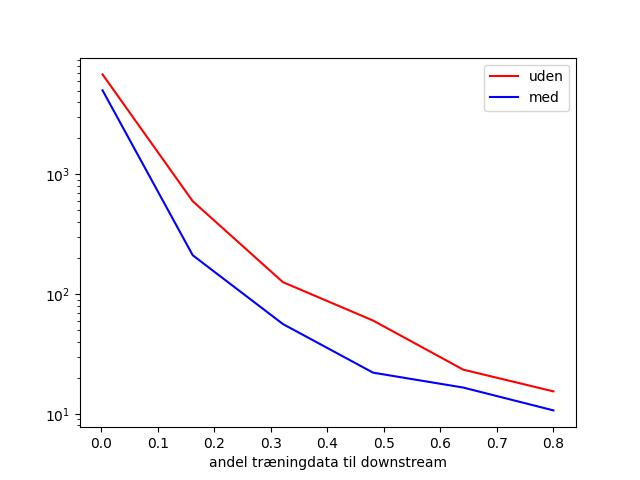
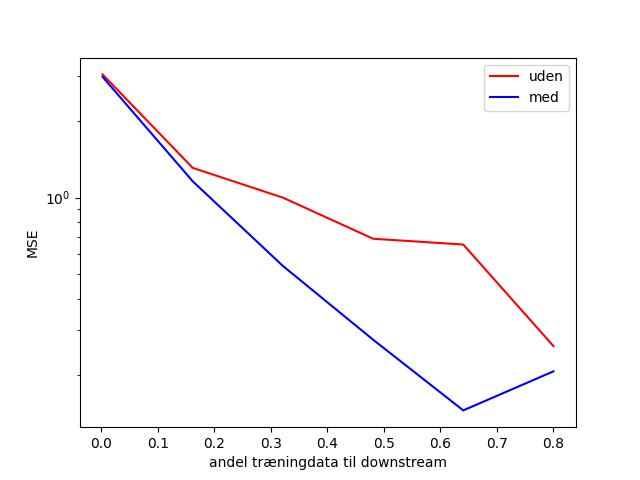
ændringer

diff --git a/src/models/grund.py b/src/models/grund.py
@@ -11,16 +11,17 @@ from src.models.hoveder.hovedselvvejledt import HovedSelvvejledt
 from src.models.hoveder.hoveddownstream import HovedDownstream
 from src.models.visnet.kerne import VisNetRyggrad
 
+
 class Grundmodel(L.LightningModule):
 
     def __init__(self,
                  debug: bool = False,
                  eftertræningsandel: float = 0.0025,
                  delmængdestørrelse: float = 0.1,
-                 rygrad_args = VisNetRyggrad.args
+                 rygrad_args=VisNetRyggrad.args
                  ):
         super().__init__()
-        rygrad_args = self.behandl_rygrad_args(rygrad_args)
+        self.tjek_args(rygrad_args, VisNetRyggrad.args)
         self.rygrad = VisNetRyggrad(
             **rygrad_args
         )
@@ -28,18 +29,20 @@ class Grundmodel(L.LightningModule):
         self.debug = debug
         self.eftertræningsandel = eftertræningsandel
         self.QM9Bygger = QM9Bygger(eftertræningsandel, delmængdestørrelse)
+        self.save_hyperparameters()
 
-    def behandl_rygrad_args(self, rygrad_args):
-        forskel = set(rygrad_args.keys()) - set(VisNetRyggrad.args.keys())
-        assert len(forskel) == 0, f'Følgende argumenter var uventede {forskel}'
-        ny_rygrad_args = {**VisNetRyggrad.args, **{k: rygrad_args[k] for k in rygrad_args}}
-        return ny_rygrad_args
+    def tjek_args(self, givne_args, forventede_args):
+        forskel1 = set(givne_args.keys()) - set(forventede_args.keys())
+        assert len(forskel1) == 0, f'Følgende argumenter var uventede {forskel1}'
+        forskel2 = set(forventede_args.keys()) - set(givne_args.keys())
+        assert len(forskel2) == 0, f'Følgende argumenter mangler {forskel2}'
 
     def train_dataloader(self) -> DataLoader:
         return self.QM9Bygger('train', self.debug)
 
     def val_dataloader(self) -> DataLoader:
         return self.QM9Bygger('val', self.debug)
+
     def test_dataloader(self) -> DataLoader:
         return self.QM9Bygger('test', self.debug)
 
@@ -50,22 +53,19 @@ class Grundmodel(L.LightningModule):
     def frys_rygrad(self):
         self.rygrad.freeze()
 
+
 class GrundSelvvejledt(Grundmodel):
 
     def __init__(self, *args,
-                 maskeringsandel = 0.15,
-                 lambdaer = None,
-                 reduce_op: str = "sum",
-                 mean: float = 0.0,
-                 std: float = 1.0,
-                 hidden_channels: int = 128,
-                 max_z: int = 100,
-                 atomref: Optional[Tensor] = None,
+                 maskeringsandel=0.15,
+                 lambdaer=None,
+                 hoved_args=HovedSelvvejledt.args,
                  **kwargs):
         super().__init__(*args, **kwargs)
 
         if not lambdaer:
             self.lambdaer = {'lokalt': 0.5, 'globalt': 0.5}
+        self.tjek_args(hoved_args, HovedSelvvejledt.args)
 
         self.register_buffer("noise_scales_options", torch.tensor([0.001, 0.01, 0.1, 1.0, 10, 100, 1000]))
         self.maskeringsandel = maskeringsandel
@@ -73,12 +73,8 @@ class GrundSelvvejledt(Grundmodel):
         self.criterion = torch.nn.MSELoss(reduction='mean')
         self.riemannGaussian = RiemannGaussian()
         self.hoved = HovedSelvvejledt(
-            atomref=atomref,
-            max_z=max_z,
-            reduce_op=reduce_op,
-            mean=mean,
-            std=std,
-            hidden_channels=hidden_channels,
+            **hoved_args,
+            hidden_channels=self.hparams.rygrad_args['hidden_channels'],
             out_channels=len(self.noise_scales_options)
         )
 
@@ -126,17 +122,17 @@ class GrundSelvvejledt(Grundmodel):
         x, v, edge_attr = self.rygrad(z, pos_til, batch)
         tabsopslag = self.hoved(z, pos_til, batch, x, v, noise_idxs, noise_scales, target)
         return tabsopslag
+
+
 class GrundDownstream(Grundmodel):
     def __init__(self, *args,
-                 hidden_channels: int = 128,
-                 out_channels: int = 19,
-                 reduce_op: str = 'sum',
+                 hoved_args=HovedDownstream.args,
                  **kwargs):
         super().__init__(*args, **kwargs)
+        self.tjek_args(hoved_args, HovedDownstream.args)
         self.hoved = HovedDownstream(
-            hidden_channels=hidden_channels,
-            out_channels=out_channels,
-            reduce_op=reduce_op
+            hidden_channels=self.hparams.rygrad_args['hidden_channels'],
+            **hoved_args
         )
         self.criterion = torch.nn.MSELoss()
 
@@ -159,10 +155,10 @@ class GrundDownstream(Grundmodel):
         return loss
 
     def forward(
-        self,
-        z: Tensor,
-        pos: Tensor,
-        batch: Tensor,
+            self,
+            z: Tensor,
+            pos: Tensor,
+            batch: Tensor,
     ) -> Tuple[Tensor, Optional[Tensor]]:
         x, v, edge_attr = self.rygrad(z, pos, batch)
         y = self.hoved(z, pos, batch, x, v)
@@ -171,8 +167,3 @@ class GrundDownstream(Grundmodel):
     def configure_optimizers(self) -> torch.optim.Optimizer:
         optimizer = torch.optim.AdamW(self.parameters(), lr=0.0001)
         return optimizer
-
-
-
-
-

diff --git a/src/træn.py b/src/træn.py
@@ -1,33 +1,35 @@
 import lightning as L
-from src.models.grund import GrundSelvvejledt, GrundDownstream
+import src.models as m
 import argparse
 
 def med_selvtræn():
-    selvvejledt = GrundSelvvejledt(debug=DEBUG, eftertræningsandel=0.0025, rygrad_args={'num_heads': 2})
+    selvvejledt = m.GrundSelvvejledt(debug=args.debug, eftertræningsandel=0.0025,
+                                   rygrad_args=m.load_config("config/rygrad_args.yaml"),
+                                     hoved_args=m.load_config("config/selvvejledt_hoved_args.yaml"))
     checkpoint_callback = L.pytorch.callbacks.ModelCheckpoint(monitor='val_loss', mode='min',
                                                               save_top_k=1, filename='best', save_last=True)
-    trainer = L.Trainer(max_epochs=EPOKER_SELVTRÆN,
+    trainer = L.Trainer(max_epochs=args.epoker_selvtræn,
                         callbacks=[checkpoint_callback])
     trainer.fit(model=selvvejledt)
 
-    downstream = GrundDownstream(debug=DEBUG)
-    downstream.indæs_selvvejledt_rygrad(GrundSelvvejledt.load_from_checkpoint(trainer.checkpoint_callback.best_model_path))
-    if FRYS_RYGRAD:
+    downstream = m.GrundDownstream(debug=args.debug, rygrad_args=m.load_config("config/rygrad_args2.yaml"))
+    downstream.indæs_selvvejledt_rygrad(m.GrundSelvvejledt.load_from_checkpoint(trainer.checkpoint_callback.best_model_path))
+    if args.frys_rygrad:
         downstream.frys_rygrad()
     checkpoint_callback = L.pytorch.callbacks.ModelCheckpoint(monitor='val_loss', mode='min',
                                                               save_top_k=1, filename='best', save_last=True)
-    trainer = L.Trainer(max_epochs=EPOKER_EFTERFØLGENDE,
+    trainer = L.Trainer(max_epochs=args.epoker_efterfølgende,
                         callbacks=[checkpoint_callback])
     trainer.fit(downstream)
     trainer.test(ckpt_path="best")
 
 def uden_selvtræn():
-    downstream = GrundDownstream(debug=DEBUG)
-    if FRYS_RYGRAD:
+    downstream = m.GrundDownstream(debug=args.debug, rygrad_args=m.load_config("config/rygrad_args.yaml"))
+    if args.frys_rygrad:
         downstream.frys_rygrad()
     checkpoint_callback = L.pytorch.callbacks.ModelCheckpoint(monitor='val_loss', mode='min',
                                                               save_top_k=1, filename='best', save_last=True)
-    trainer = L.Trainer(max_epochs=EPOKER_EFTERFØLGENDE,
+    trainer = L.Trainer(max_epochs=args.epoker_efterfølgende,
                         callbacks=[checkpoint_callback])
     trainer.fit(downstream)
     trainer.test(ckpt_path="best")
@@ -43,10 +45,16 @@ def parserargs():
 
 if __name__ == "__main__":
     args = parserargs()
-    DEBUG = args.debug
-    EPOKER_SELVTRÆN = args.epoker_selvtræn
-    EPOKER_EFTERFØLGENDE = args.epoker_efterfølgende
-    FRYS_RYGRAD = args.frys_rygrad
+    # DEBUG = args.debug
+    # EPOKER_SELVTRÆN = args.epoker_selvtræn
+    # EPOKER_EFTERFØLGENDE = args.epoker_efterfølgende
+    # FRYS_RYGRAD = args.frys_rygrad
+    # RYGRAD_ARGS = m.load_config("config/rygrad_args.yaml")
+    # SELVVEJLEDT_HOVED_ARGS = m.load_config("config/selvvejledt_hoved_args.yaml")
+    # with open("config/rygrad_args.yaml") as f:
+    #     RYGRAD_ARGS = yaml.safe_load(f)
+    # with open("config/selvvejledt_hoved_args.yaml") as f:
+    #     SELVVEJLEDT_HOVED_ARGS = yaml.safe_load(f)
 
 
     med_selvtræn()

diff --git a/src/eksp2.py b/src/eksp2.py
@@ -1,12 +1,12 @@
 import lightning as L
-from src.models.grund import GrundSelvvejledt, GrundDownstream
+import src.models as m
 import argparse
 import torch
 import pickle
 from src.data import QM9Bygger2
 
 def fortræn():
-    selvvejledt = GrundSelvvejledt(debug=args.debug)
+    selvvejledt = m.GrundSelvvejledt(debug=args.debug)
     checkpoint_callback = L.pytorch.callbacks.ModelCheckpoint(monitor='val_loss', mode='min',
                                                               save_top_k=1, filename='best', save_last=True)
     trainer = L.Trainer(max_epochs=args.epoker_selvtræn,
@@ -14,9 +14,9 @@ def fortræn():
     trainer.fit(selvvejledt,
                 train_dataloaders=qm9Bygger2('pretrain', debug=args.debug),
                 val_dataloaders=qm9Bygger2('val', debug=args.debug))
-    return GrundSelvvejledt.load_from_checkpoint(trainer.checkpoint_callback.best_model_path)
+    return m.GrundSelvvejledt.load_from_checkpoint(trainer.checkpoint_callback.best_model_path)
 def med_selvtræn(eftertræningsandel):
-    downstream = GrundDownstream(debug=args.debug)
+    downstream = m.GrundDownstream(debug=args.debug)
     downstream.indæs_selvvejledt_rygrad(selvvejledt)
     checkpoint_callback = L.pytorch.callbacks.ModelCheckpoint(monitor='val_loss', mode='min',
                                                               save_top_k=1, filename='best', save_last=True)
@@ -30,7 +30,7 @@ def med_selvtræn(eftertræningsandel):
     return resultater
 
 def uden_selvtræn(eftertræningsandel):
-    downstream = GrundDownstream(debug=args.debug)
+    downstream = m.GrundDownstream(debug=args.debug)
     checkpoint_callback = L.pytorch.callbacks.ModelCheckpoint(monitor='val_loss', mode='min',
                                                               save_top_k=1, filename='best', save_last=True)
     trainer = L.Trainer(max_epochs=args.epoker_efterfølgende,

diff --git a/src/models/hoveder/hovedselvvejledt.py b/src/models/hoveder/hovedselvvejledt.py
@@ -10,15 +10,21 @@ from src.models.visnet.kerne import EquivariantScalar, Atomref
 
 
 class HovedSelvvejledt(L.LightningModule):
-
+    args = {
+        'atomref': None,
+        'max_z': 100,
+        'reduce_op': "sum",
+        'mean': 0.0,
+        'std': 1.0,
+    }
     def __init__(self,
-                 hidden_channels: int = 128,
-                 atomref: Optional[Tensor] = None,
-                 max_z: int = 100,
-                 reduce_op: str = "sum",
-                 mean: float = 0.0,
-                 std: float = 1.0,
-                 out_channels: int = 4,
+                 out_channels,
+                 hidden_channels: int,
+                 atomref: Optional[Tensor] = args['atomref'],
+                 max_z: int = args['max_z'],
+                 reduce_op: str = args['reduce_op'],
+                 mean: float = args['mean'],
+                 std: float = args['std'],
                  ):
         super().__init__()
         self.lokal = LokaltGradient(

diff --git a/src/models/hoveder/hoveddownstream.py b/src/models/hoveder/hoveddownstream.py
@@ -4,14 +4,14 @@ from torch_geometric.utils import scatter
 
 
 class HovedDownstream(L.LightningModule):
-    # defaults_args = {'hidden_channels': 128,
-    #                  'out_channels': 19,
-    #                  'reduce_op': "sum"}
+    args = {'out_channels': 19,
+            'reduce_op': "sum"}
+
 
     def __init__(self,
                  hidden_channels: int,
-                 out_channels: int,
-                 reduce_op: str,
+                 out_channels: int = args['out_channels'],
+                 reduce_op: str = args['reduce_op'],
                  ):
         super().__init__()
         self.motor = torch.nn.Sequential(

diff --git a/src/models/redskaber.py b/src/models/redskaber.py
@@ -8,6 +8,8 @@ from torch_geometric.utils import subgraph
 import lightning as L
 from torch_scatter import scatter_mean, scatter_add
 
+import yaml
+
 
 class Maskemager(L.LightningModule):
     def forward(self, n_knuder: int,
@@ -65,6 +67,11 @@ class RiemannGaussian(L.LightningModule):
         target = (1/alpha).view(-1, 1) * s
         return pos_til, target
 
+
+def load_config(path):
+    with open(path) as f:
+        config_dict = yaml.safe_load(f)
+    return config_dict
 
 if __name__ == "__main__":
     riemannGuassian = RiemannGaussian()

diff --git a/src/visualization/visualize.py b/src/visualization/visualize.py
@@ -17,6 +17,7 @@ for idx, (key, tensor) in enumerate(data.items()):
     plt.plot(x, tensor, color=colors[idx], label=key)
 
 plt.xlabel("andel træningdata til downstream")
+plt.ylabel("MSE")
 plt.yscale('log')
 plt.legend()
 print("nu skal jeg til at vise")

diff --git a/src/models/__init__.py b/src/models/__init__.py
@@ -1,1 +1,3 @@
-from src.models import visnet
+# from src.models import visnet
+from src.models.grund import GrundSelvvejledt, GrundDownstream
+from src.models.redskaber import load_config
